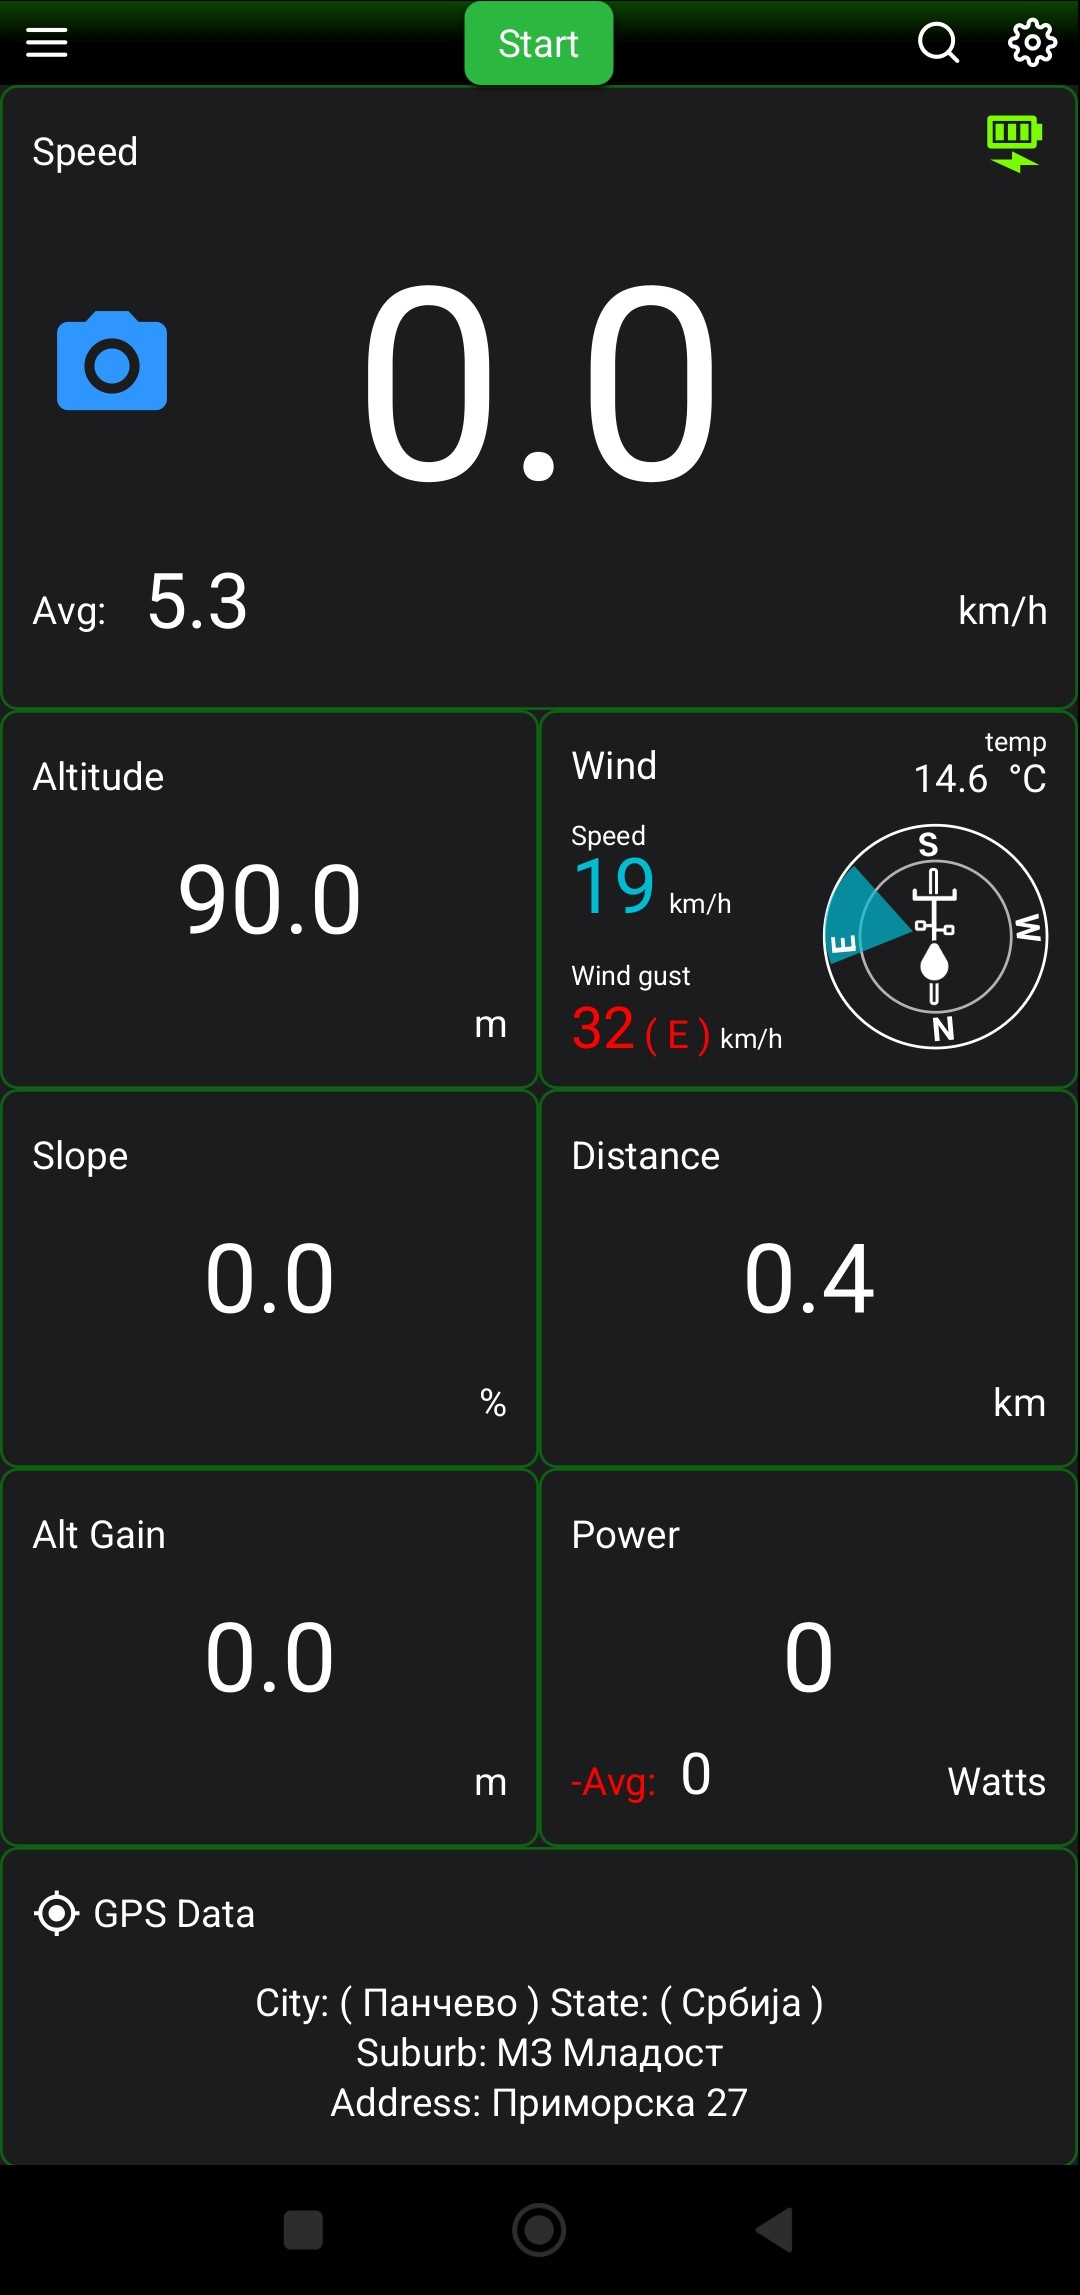
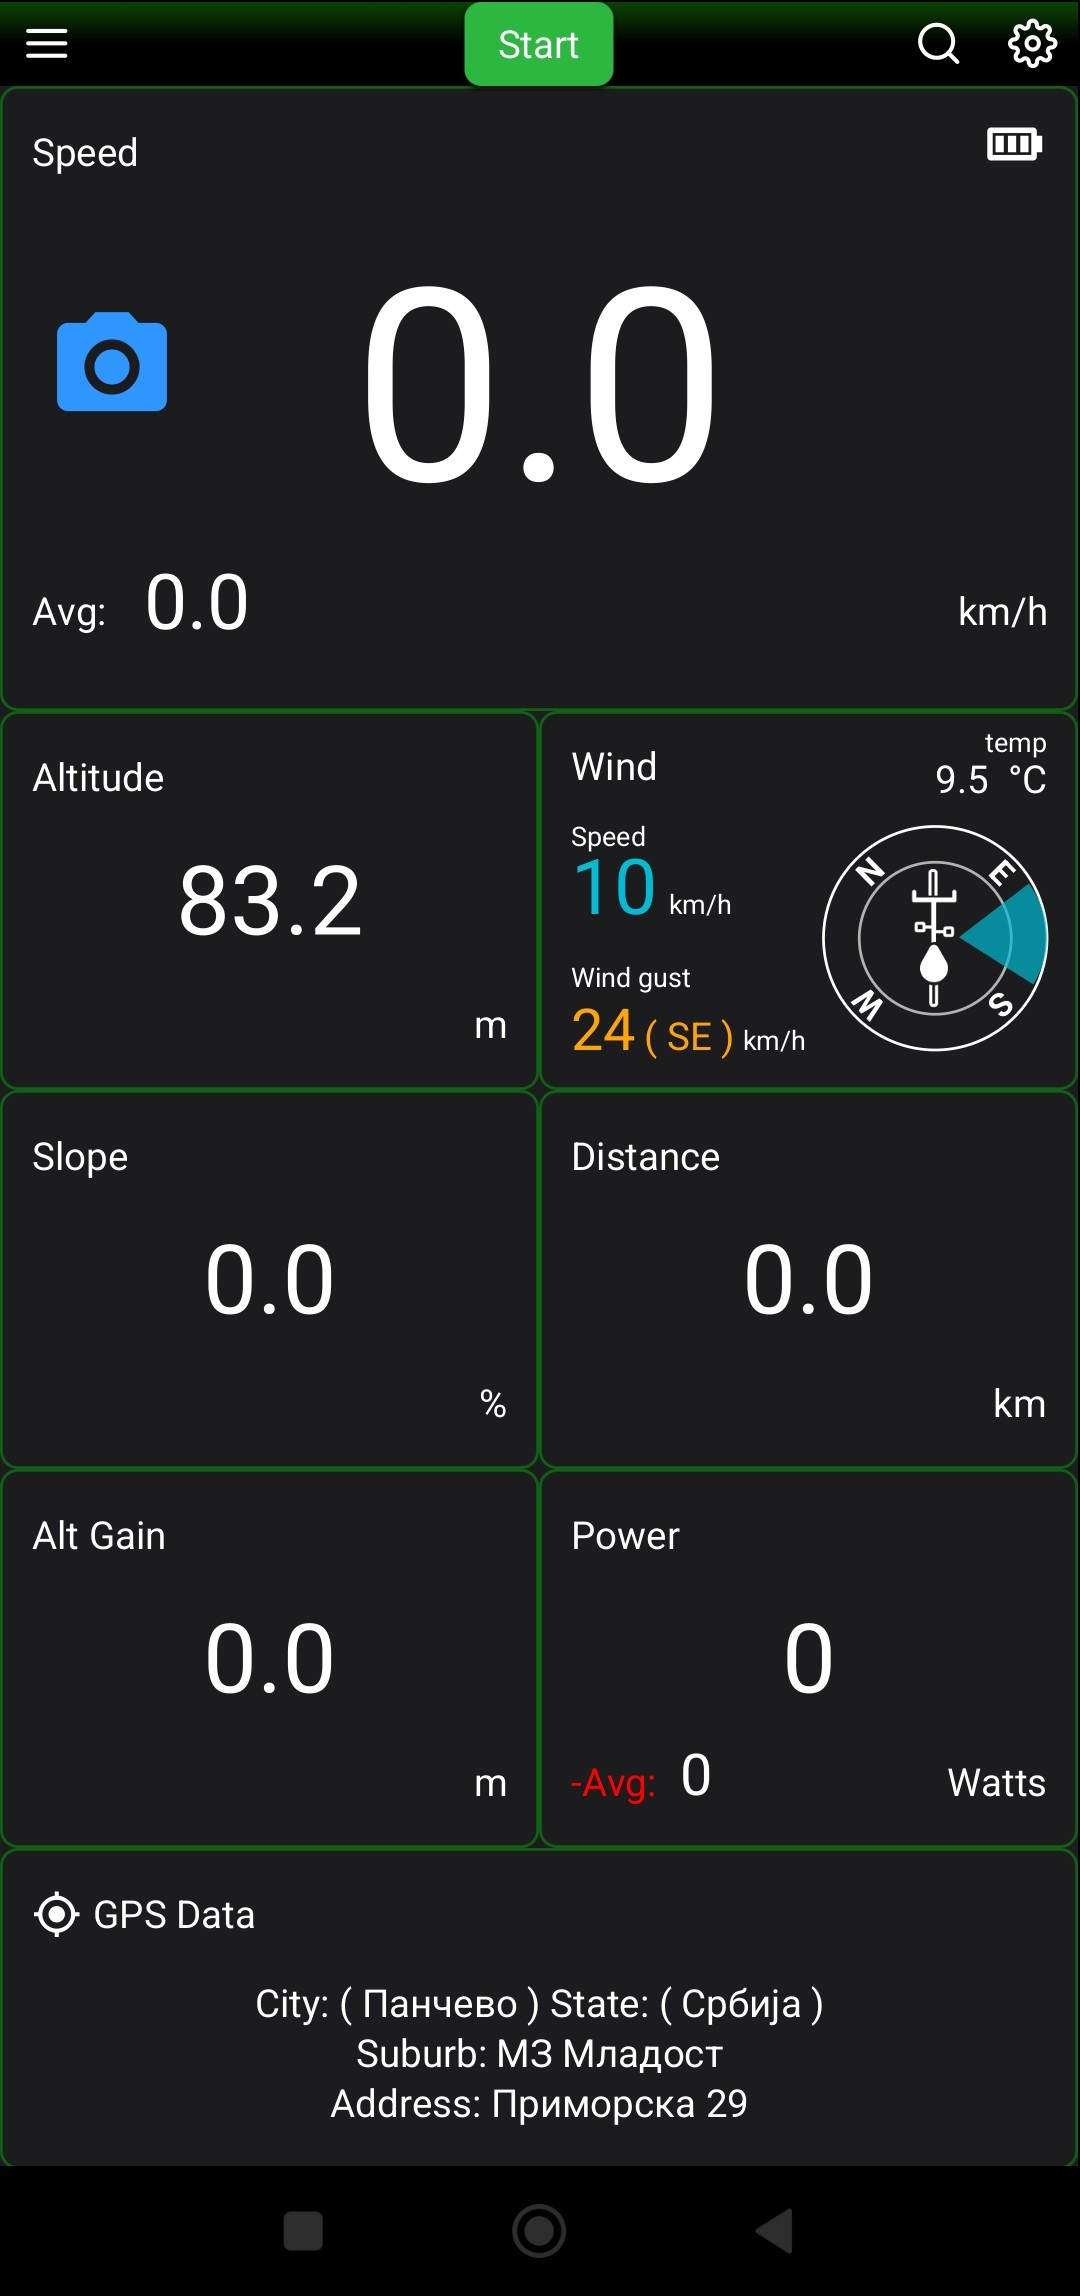
Update wind card

diff --git a/src/main/java/dev/java4now/View/HelpPage.java b/src/main/java/dev/java4now/View/HelpPage.java
@@ -52,7 +52,7 @@ public class HelpPage {
                 """;
 
         var article = """
-                The [b]color arrow[/b] shows wind direction relative to your bike 
+                The [b]color arrow[/b] shows wind direction relative to your bike
                 ([b]Top = Front / Headwind[/b], Bottom = Tailwind, Sides = Crosswind).
                 
                 [heading=3][color=skyblue][icon=compass size=24/][/color] Wind Card Colors[/heading]
@@ -77,8 +77,8 @@ public class HelpPage {
                 
                 Power measurement accuracy depends on correctly entering your [b]bike + rider weight[/b] in the settings.
                 
-                [center][icon=github size=%f/] [url="https://github.com/CommonGrounds"]Source Code on GitHub[/url][/center]
-                """.formatted(Font.getDefault().getSize() - 3);
+                [center][icon=github size=%.0f/] [url="https://github.com/CommonGrounds"]Source Code on GitHub[/url][/center]
+                """.formatted(Font.getDefault().getSize() * 1.2); // important -  kada je font mora %.0f
 
 
         var image = getImage();